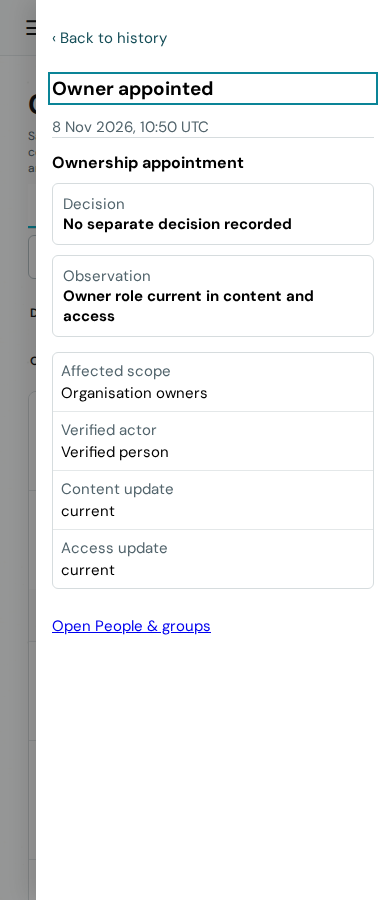
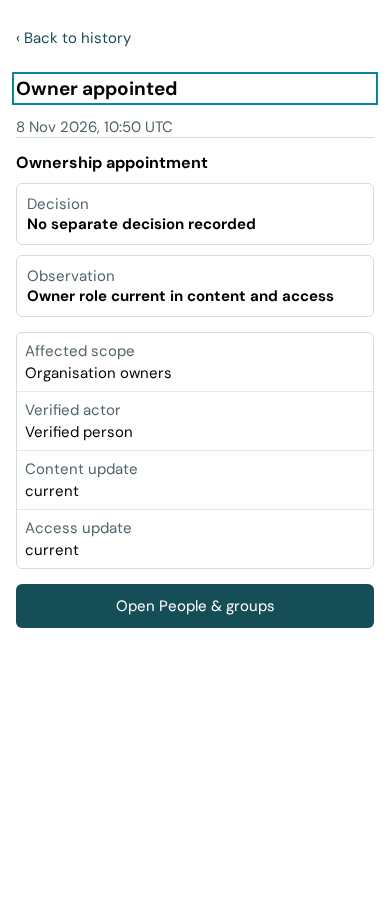
🕰 Show complete history families and full-screen phone detail

Changed region(s): [[0.0, 0.0, 0.9846, 1.0]]

diff --git a/libs/projections/src/audit.ts b/libs/projections/src/audit.ts
@@ -14,6 +14,7 @@ import { auditIdentifier as identifier, auditLinks, isDispatchEvent,
 import { maintenanceAuditData, maintenanceAnchor, maintenanceMetadata,
   maintenanceStatus } from './audit-maintenance.ts';
 import { maintenanceOutcome, observedOutcome } from './audit-outcomes.ts';
+import { familyCondition, prefixCondition } from './audit-filters.ts';
 export { readAuditOwnershipConfirmation } from './audit-outcomes.ts';
 
 // Free text never enters this projection, including approval reasons and tool arguments.
@@ -33,13 +34,13 @@ const auditPrefixes = [
   'assistant.',
   'grant.',
   'delegation.',
+  // Keep only the reviewed metadata from these events, never their schedules or keys.
+  'budget.',
+  'provider.',
+  'model.',
+  'routine.',
 ];
 const auditTypes = new Set([
-  // Budget records expose amounts and outcomes without request content.
-  'budget.reserved',
-  'budget.settled',
-  'budget.ceiling_set',
-  'budget.exhausted',
   // Security and gateway records explain refused or observed work.
   'tool.approval_requested',
   'tool.dispatch_started',
@@ -395,11 +396,10 @@ export async function readAudit(db: Query, silo: string,
     where.push(`${column} = $${parameters.length}`);
   }
   if (filter.type) {
-    parameters.push(`${filter.type}.`);
-    const start = parameters.length;
-    parameters.push(`${filter.type}/`);
-    where.push(`event_type COLLATE "C" >= $${start}
-      AND event_type COLLATE "C" < $${parameters.length}`);
+    where.push(prefixCondition(filter.type, parameters));
+  }
+  if (filter.family) {
+    where.push(familyCondition(filter.family, parameters));
   }
   if (filter.from) {
     parameters.push(filter.from);

diff --git a/apps/web/src/app/audit/audit.html b/apps/web/src/app/audit/audit.html
@@ -11,16 +11,16 @@
     <div class="families-and-search">
     <nav class="families" aria-label="History families">
       <button type="button" [class.selected]="family === ''" (click)="selectFamily('')">All</button>
-      <button type="button" [class.selected]="family === 'member'"
-        (click)="selectFamily('member')">Members &amp; owners</button>
-      <button type="button" [class.selected]="family === 'tool'"
-        (click)="selectFamily('tool')">Tools &amp; models</button>
-      <button type="button" [class.selected]="family === 'effect'"
-        (click)="selectFamily('effect')">Spending &amp; effects</button>
+      <button type="button" [class.selected]="family === 'members'"
+        (click)="selectFamily('members')">Members &amp; owners</button>
+      <button type="button" [class.selected]="family === 'tools'"
+        (click)="selectFamily('tools')">Tools &amp; models</button>
+      <button type="button" [class.selected]="family === 'spending'"
+        (click)="selectFamily('spending')">Spending &amp; effects</button>
       <button type="button" [class.selected]="family === 'memory'"
         (click)="selectFamily('memory')">Memory</button>
-      <button type="button" [class.selected]="family === 'agent'"
-        (click)="selectFamily('agent')">Routines</button>
+      <button type="button" [class.selected]="family === 'routines'"
+        (click)="selectFamily('routines')">Routines</button>
     </nav>
     <form class="reference-search" (submit)="filter($event)" aria-label="History search">
       <label class="sr-only" for="history-reference">Safe reference</label>

diff --git a/libs/projections/src/audit-filters.ts b/libs/projections/src/audit-filters.ts
@@ -1,0 +1,26 @@
+import type { AuditFilter } from '@opencrane/protocol';
+
+const familyPrefixes = {
+  members: ['member', 'ownership', 'team', 'assistant', 'grant', 'silo'],
+  tools: ['tool', 'mcp', 'connection', 'egress', 'credential', 'provider', 'model'],
+  spending: ['budget', 'effect', 'decision', 'gateway'],
+  memory: ['memory'],
+  routines: ['routine'],
+} as const;
+
+export function prefixCondition(prefix: string, parameters: unknown[]): string {
+  parameters.push(`${prefix}.`);
+  const start = parameters.length;
+  parameters.push(`${prefix}/`);
+  return `(event_type COLLATE "C" >= $${start}
+    AND event_type COLLATE "C" < $${parameters.length})`;
+}
+
+export function familyCondition(family: NonNullable<AuditFilter['family']>,
+  parameters: unknown[]): string {
+  const conditions: string[] = [];
+  for (const prefix of familyPrefixes[family]) {
+    conditions.push(prefixCondition(prefix, parameters));
+  }
+  return `(${conditions.join(' OR ')})`;
+}

diff --git a/libs/protocol/src/audit.ts b/libs/protocol/src/audit.ts
@@ -114,7 +114,8 @@ export const auditFilterSchema = z.object({
   type: z.enum(['decision', 'effect', 'approval', 'mcp', 'connection', 'egress',
     'takeover', 'team', 'ownership', 'assistant', 'grant', 'budget', 'tool',
     'credential', 'security', 'gateway', 'agent', 'member', 'computer', 'silo',
-    'conversation', 'delegation', 'memory']).optional(),
+    'conversation', 'delegation', 'memory', 'provider', 'model', 'routine']).optional(),
+  family: z.enum(['members', 'tools', 'spending', 'memory', 'routines']).optional(),
   actorId: id.optional(),
   outcome: z.enum(['success', 'error', 'unknown', 'not_dispatched', 'recorded']).optional(),
   reference: id.optional(),

diff --git a/apps/web/src/app/audit/audit.css b/apps/web/src/app/audit/audit.css
@@ -71,7 +71,9 @@ dd { margin: 0; overflow-wrap: anywhere; }
   .choices button { flex: 1; min-width: 44px; padding: 7px 4px; font-size: 12px; }
   .row-button { grid-template-columns: 1fr 16px; }
   .row-button time { grid-column: 1 / -1; }
-  .history-detail { width: 100%; }
+  .history-detail { width: 100%; max-width: 100%; }
+  .history-detail .task-link { display: flex; width: 100%; justify-content: center;
+    border-radius: 6px; background: #164e58; color: #fff; text-decoration: none; }
   .results { grid-template-columns: 1fr; }
   dl div { grid-template-columns: 1fr; gap: 2px; }
 }

diff --git a/apps/web/src/app/audit/audit.ts b/apps/web/src/app/audit/audit.ts
@@ -107,7 +107,7 @@ export class AuditScreen implements OnInit {
 
   private listQuery(before?: number): URLSearchParams {
     const query = new URLSearchParams();
-    const fields = { reference: this.reference, type: this.family,
+    const fields = { reference: this.reference, family: this.family,
       outcome: this.outcomeFilter };
     for (const [key, value] of Object.entries(fields)) {
       if (value.trim()) query.set(key, value.trim());

diff --git a/libs/projections/README.md b/libs/projections/README.md
@@ -10,6 +10,8 @@ who did what. The saved event log
 remains the record of what happened, so these tables can be rebuilt.
 Conversation tables keep encrypted command views. Organisation history keeps
 only the plain activity label and leaves out the view.
+Organisation history also groups member, tool, spending, memory and routine
+changes. It keeps only safe fields from provider, budget and routine events.
 Provider read tables keep a retired connection's safe details and apply its
 reviewed binding choices in one database transaction. Rebuilding them reads only
 saved events and does not contact a model provider.
@@ -57,7 +59,7 @@ PostgreSQL, the database for the read tables.
 flowchart LR
   models["libs/models<br/>model choices and replay tests"] -.->|uses database locks and the test helper| projections
   ops["apps/ops<br/>workers"] -->|fills tables, reads ordered routines and send authorisations, and checks saved changes| projections["libs/projections<br/>read tables, chat history and safe audit, routines, memory, surveys, personas and completed welcomes"]
-  server["apps/server<br/>back end"] -->|reads tables, own and admin routine lists, run pages and spending choices| pg["PostgreSQL<br/>database"]
+  server["apps/server<br/>back end"] -->|reads tables, history families, routine lists and spending choices| pg["PostgreSQL<br/>database"]
   projections -->|saves history, child publication, searchable task outcomes and spending; keeps private audits and process exits outside chat feeds| pg
   store["libs/event-store<br/>saved events"] -->|ordered events, image requests and results, nightly records, tool holds, check recovery, gateway restart receipts and private instance stops and reports| projections
   server -.->|reads member references, tool readiness, nightly memory inputs and child requests awaiting activation| projections

diff --git a/apps/web/src/app/audit/README.robot.md b/apps/web/src/app/audit/README.robot.md
@@ -3,6 +3,8 @@
 The organisation list reads `GET /api/org/history` with type, outcome, date
 and reference filters. Search submits the safe reference. `before` loads
 the next page. Rows are keyed by audit id, even when recorded times match.
+The family filter sends `members`, `tools`, `spending`, `memory` or `routines`.
+The server maps each key to the event prefixes in that family before paging.
 
 The selected row reads `GET /api/org/history/:auditId`. Its `before` field
 pages bounded evidence. A link is drawn only from `taskHref` returned by
@@ -11,8 +13,9 @@ The server checks publication and delegation chat rights for each read.
 Memory details show only the allowed metadata.
 The screen shows a short change reference only when the server id is a safe
 `chg_` reference. Other internal ids stay out of the list and detail.
-The detail opens as a browser modal. The browser keeps keyboard focus inside
-it, and Escape returns focus to the selected row. A person actor on an
+The detail opens as a browser modal. At phone widths it covers the full
+viewport and its task action spans the available width. The browser keeps
+keyboard focus inside it, and Escape returns focus to the selected row. A person actor on an
 authoritative record is shown as a verified person without exposing an id.
 An ownership record is called confirmed only when both content and access
 progress are current. The People & groups link opens the normal access-checked page.

diff --git a/libs/protocol/README.md b/libs/protocol/README.md
@@ -12,6 +12,7 @@ Control refusal history explains when someone was not the requester or their att
 conflicted with saved control. It contains no private computer or turn details.
 
 Removal, role and ownership history replies identify the affected person and saved operation.
+History requests can select a named family covering related event types.
 Publication history replies can name a permitted parent chat, a permitted child chat
 and a saved result reference. A parent link is shown only to a parent reader.
 Detail replies can also say whether read tables and permissions have applied that change.
@@ -48,7 +49,7 @@ This shared library is used by the browser app (`apps/web`), the back end (`apps
 flowchart LR
   web["apps/web<br/>browser app"] -.->|chat replies with masked views, file ids, service readiness and private clearances| protocol["libs/protocol<br/>shared reply shapes"]
   server["apps/server<br/>back end"] -.->|chat replies with masked views, close permission and call status| protocol
-  projections["libs/projections<br/>read tables"] -.->|saved resolution and publication history| protocol
+  projections["libs/projections<br/>read tables"] -.->|safe history and family filters| protocol
   models["libs/models<br/>AI rules and spending"] -.-> protocol
   protocol -.-> zod["Zod<br/>data checks"]
 ```

diff --git a/docs/process/screen-p4-27-history/receipt.md b/docs/process/screen-p4-27-history/receipt.md
@@ -1,5 +1,5 @@
 # Change history screen capture
 
-PASS — Six intercepted browser captures at 1280 and 390 pixels. The list includes membership, publication, restricted delegation, memory metadata and an unknown observation. OVR-21 shows an empty selection; OVR-22 shows detail. Reduced motion, horizontal overflow, 44 px targets and visible phone results were checked. The detail was checked for modal focus, Tab, reverse Tab, Escape and focus return. No live stack was used.
+PASS — Six intercepted browser captures at 1280 and 390 pixels. The list includes membership, publication, restricted delegation, memory metadata and an unknown observation. OVR-21 shows an empty selection; OVR-22 shows detail. Reduced motion, horizontal overflow, 44 px targets and visible phone results were checked. The detail was checked for modal focus, Tab, reverse Tab, Escape and focus return. The 390 px detail covers the viewport and its action spans the available width. No live stack was used.
 
 PARTIAL — Frame comparison is visual and has no pixel comparison gate. The server does not supply display names or an organisation name for these records. The captures use readable generic labels for verified people and scope. No page count is claimed.

diff --git a/libs/projections/README.robot.md b/libs/projections/README.robot.md
@@ -2,6 +2,15 @@
 
 For people, read [README.md](README.md) first.
 
+The audit read accepts one `family` key and expands it to all event prefixes
+before paging. Members includes member, ownership, team, assistant, grant and
+silo events. Tools includes tool, MCP, connection, egress, credential, provider
+and model events. Spending includes budget, effect, decision and gateway events.
+Memory and routines use their respective prefixes. Provider, model, budget and
+routine records retain only the existing safe audit metadata; schedules, keys
+and private inputs do not enter the history table. Rebuild audit after upgrading
+to include earlier records.
+
 The conversation feed retains an encrypted command `view` beside the plain
 activity label. The audit projection drops `view` from `agent.command_ran` so
 organisation readers receive only the safe activity summary.

diff --git a/apps/web/src/app/audit/README.md b/apps/web/src/app/audit/README.md
@@ -14,7 +14,7 @@ each reply.
 flowchart LR
   website[Website] --> history[Change history]
   website --> organisation[Organisation pages]
-  history --> server[Server history read]
+  history -->|family and reference| server[Server history read]
   server --> records[Saved event records]
 ```
 
@@ -22,6 +22,7 @@ flowchart LR
 
 - Shows a decision beside what was later observed.
 - Filters and loads older records without repeating a change.
+- Groups related changes so each family shows all of its saved event types.
 - Opens one record's evidence at a time.
 - Keeps focus in the open detail and returns it to the selected row when closed.
 - Shows membership, publication and delegation facts that the server permits.
